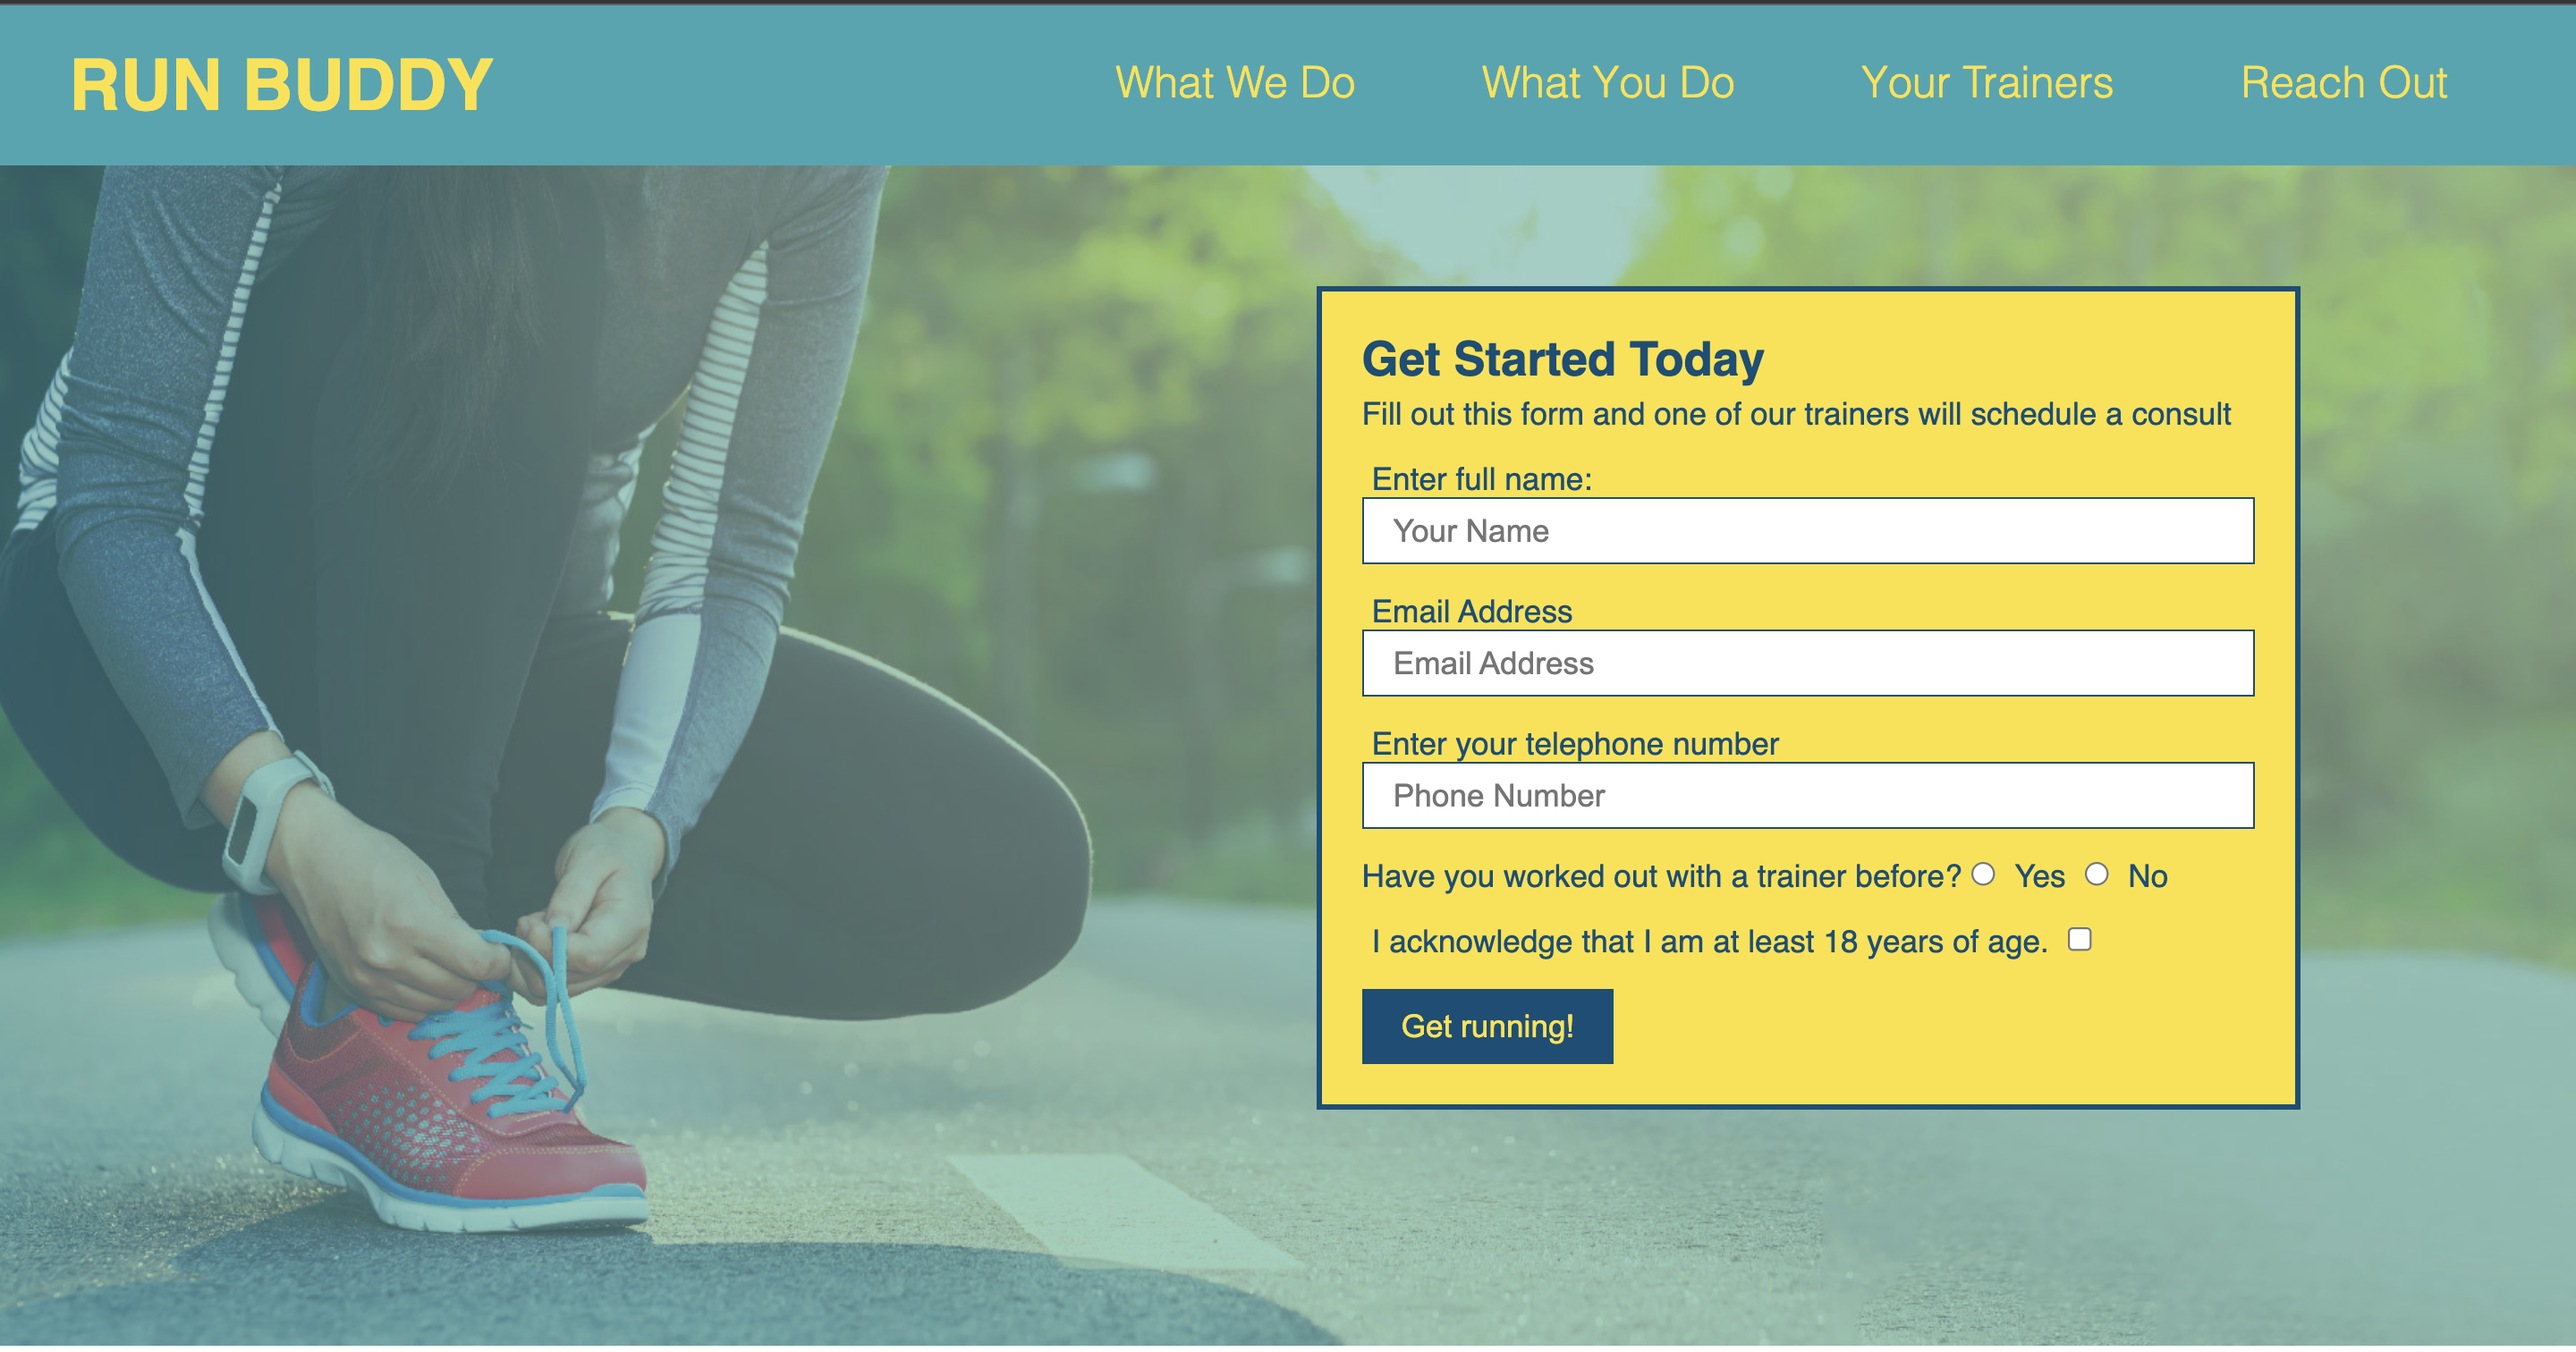
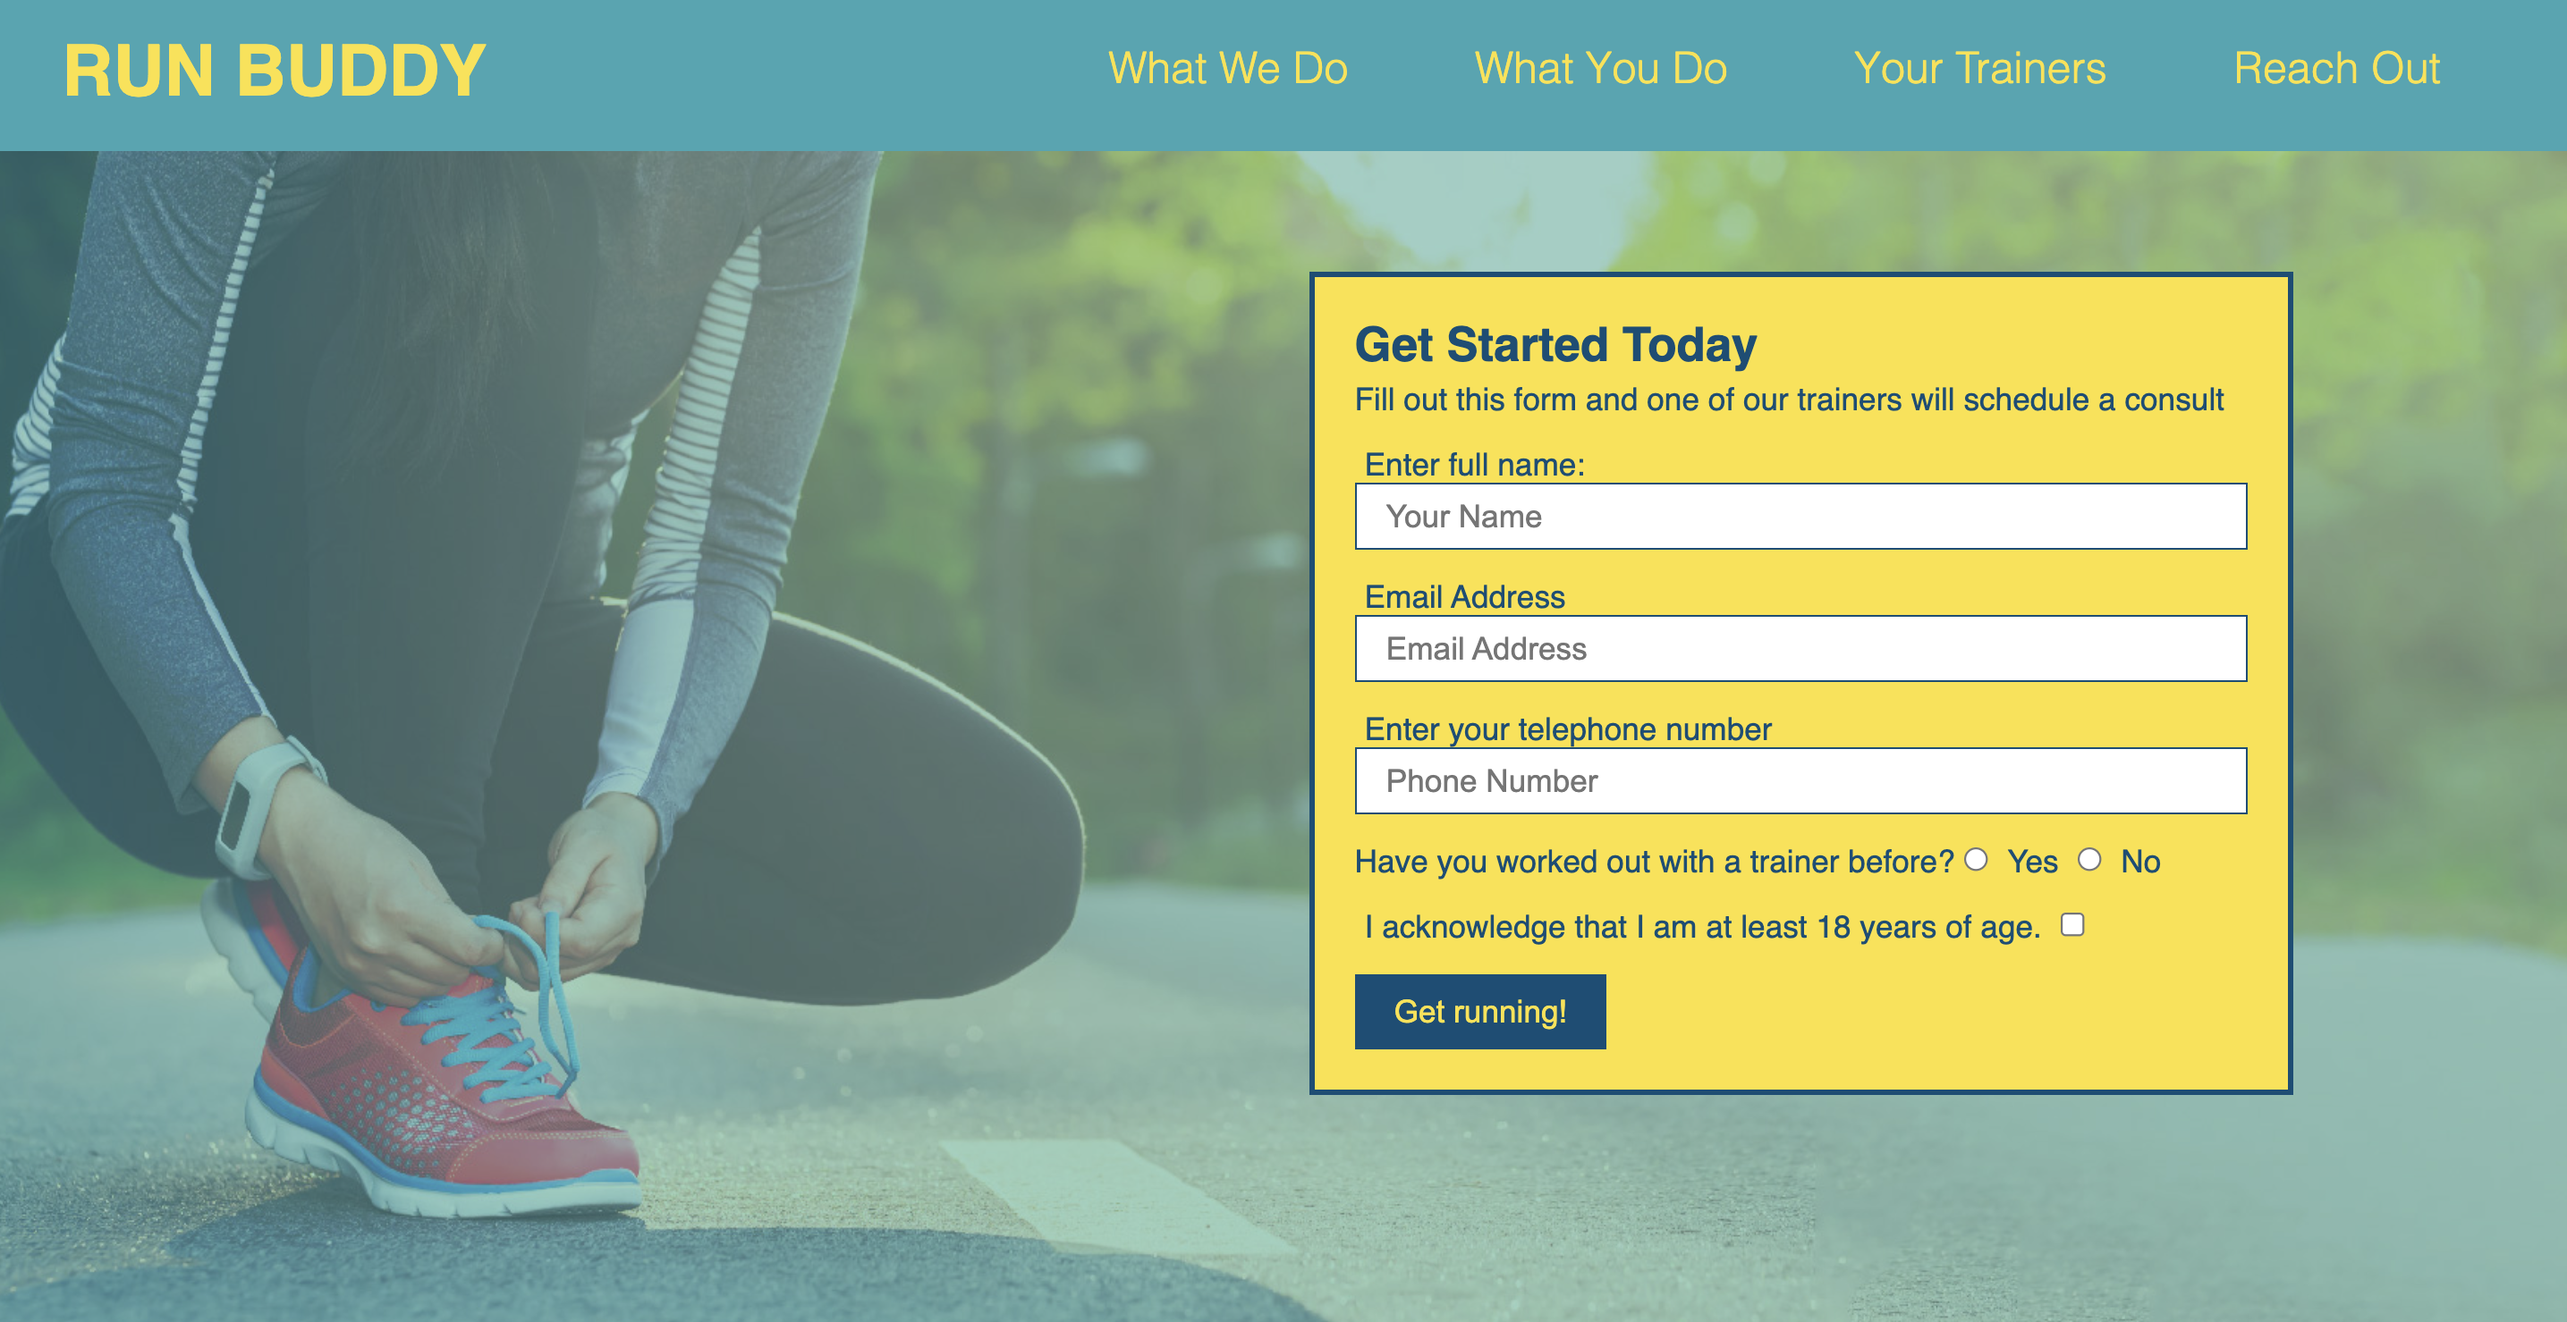
fixed image titles and image allignment.  redo contact section layout

diff --git a/assets/css/style.css b/assets/css/style.css
@@ -2,7 +2,8 @@
     --color1: #215b3eb6;
     --color2: rgba(20, 20, 162, 0.926);
     --color3: rgba(171, 5, 5, 0.85);
-
+    --color4: rgba(0, 241, 72, 0.86);
+    --color5: rgba(0, 81, 0, 0.795);
 }
 * {
     margin: 0;
@@ -32,8 +33,6 @@ header h1 {
     padding: 4px 10px;
     color: var(--color3);
     text-shadow: 0 0 10px rgba(0, 0, 0, 0.9);
-    
-
 }
 
 header nav {
@@ -83,15 +82,8 @@ body {
     font-size: 25px;
     padding: 90px;
     margin: 10px;
-    
-   
-}
-
-.hero-txt h2 {
-    text-decoration:wavy;
     text-align: end;
-
-
+    color: #ffff;  
 }
 /* HERO END */
 
@@ -99,18 +91,14 @@ body {
 /* ABOUT ME SECTION BEGIN */
 .about-me {
     display: flex;
-    padding: 2px;
+
+    margin: auto;
 }
 .section-title-about-me {
     color: var(--color2);
-    display:block;
-    flex-wrap: wrap;
-    justify-content: left;
-    align-items:flex-start;
     margin: 2px;
     padding: 40px;
     font-size: 30px;
-    
     
 }
 
@@ -118,6 +106,8 @@ body {
     display: flex;
     flex-wrap: wrap;
     margin: 10px;
+    padding: 20px;
+    color: var(--color5);
    
 }
 
@@ -135,74 +125,89 @@ body {
 
 .projects {
     width: 100%;
-    margin: 20px;
+    margin: auto;
     display: flex;
     flex-wrap: wrap;
-    justify-content: space-between;
+    border-top: 2px solid var(--color4);
+    border-bottom: 2px solid var(--color4);
+    align-items: center;
+ 
 
 }
 .projects a {
     text-decoration: none;
-    color: var(--color3)
+    display: flex;
+    color: var(--color3);
+
 }
 
 .projects img {
-    display: flex;
-    flex-wrap: wrap;
-    width: 50%;
+    width: 70%;
     align-items: center;
     margin: auto;
+    border-radius: 2%;
 }
  
 .work1 {
-    display: flex;
+ 
     align-items: center;
-    margin: 0 auto;
+    margin: 30px auto;
+   
+}
+
+h4 {
+    display: flex;
+    justify-content: center;
+    margin: 3px;
+    padding: 3px;
+    color: var(--color3);
+
 }
 
 
 .work2, .work3, .work4, .work5 {
-    display: flex;
-    display: inline;
-    flex-wrap: wrap;
-    align-items: inline;
     width: 50%;
-    justify-content: space-between;
+    margin: 30px auto;
 }
 
 
 /* CONTACT ME SECTION BEGIN */
 .section-title-contact-me {
     color: var(--color2);
-    display:block;
+    display:flex;
     flex-wrap: wrap;
     justify-content: left;
-    align-items:flex-start;
-    margin: 2px;
+    align-items: flex-start;
+    margin: auto;
     padding: 40px;
     font-size: 30px;
+}    
 
-.contat-me {
-    display: flex;
-    flex-wrap: wrap;
-    margin: 10px;
-    border: 2px solid var(--color3);
-    font-size: 20px;
-
-}
 .contacts {
-    display: inline-flex;
     display: flex;
-     justify-content: space-around;
-     margin: 0 0 20px 0;
+     margin: 20px 10px 20px 0px;
      text-decoration: none;
-     color: var(--color3)
+     color: var(--color3);
+     
+
 }
 .contacts a {
     color: var(--color3);
+
+}
+.phone, .email, .github {
+    margin: auto;
+    padding: 15px;
+    border-left: 2px solid var(--color5);
+    border-right: 2px solid var(--color5);
 }
 
 /* FOOTER */
 footer {
+    display: flex;
+    justify-content: flex-end;
     font-size: 16px;
+    color: var(--color5);
+    margin: 50px 0 10px 20px;
+    padding: 5px;
 }

diff --git a/index.html b/index.html
@@ -55,47 +55,47 @@
             </div>
         </section>
 
-        <!-- PROJECT SHOWCASE -->
-        
-        
+        <!-- PROJECT SECTION-->
         <section id="projects" class="projects">
             <h3 class="section-title-projects">
                 Projects
             </h3>
             <div class="work1">
+                <h4>Run Buddy</h4>
                 <a href="https://chrisdhodges12.github.io/run-buddy/">
+                   
                     <img src=" ./assets/images/runbuddy.jpg" alt="" />
-                    Run Buddy
                 </a>
                 
             </div>
             <div class="work2">
+                <h4>Horiseon </h4>
                 <a href="https://chrisdhodges12.github.io/Horiseon-challenge-1/">
+                    
                 <img src=" ./assets/images/horiseon.jpg" alt="" />
-                Horiseon 
                 </a>    
                 
             </div>
             <div class="work3">
-                <a href="">
+                <h4>New works coming Soon!</h4>
+                <a href="https://youtu.be/dQw4w9WgXcQ">
+                    
                     <img src=" ./assets/images/conference.jpg" alt="" />
-                    Coming Soon
                 </a>    
                 
             </div>
             <div class="work4">
-                <a href="">
+                <h4>New works coming Soon!</h4>
+                <a href="https://youtu.be/dQw4w9WgXcQ">
                     <img src=" ./assets/images/coffee.jpg" alt="" />
-                    Coming Soon
                 </a>
                 
             </div>
             <div class="work5">
-                <a href="">
+                <h4>New works coming Soon!</h4>
+                <a href="https://youtu.be/dQw4w9WgXcQ">
                     <img src=" ./assets/images/code.jpg" alt="" />
-                    Coming Soon
                 </a>
-                
             </div>
         </section>
 
